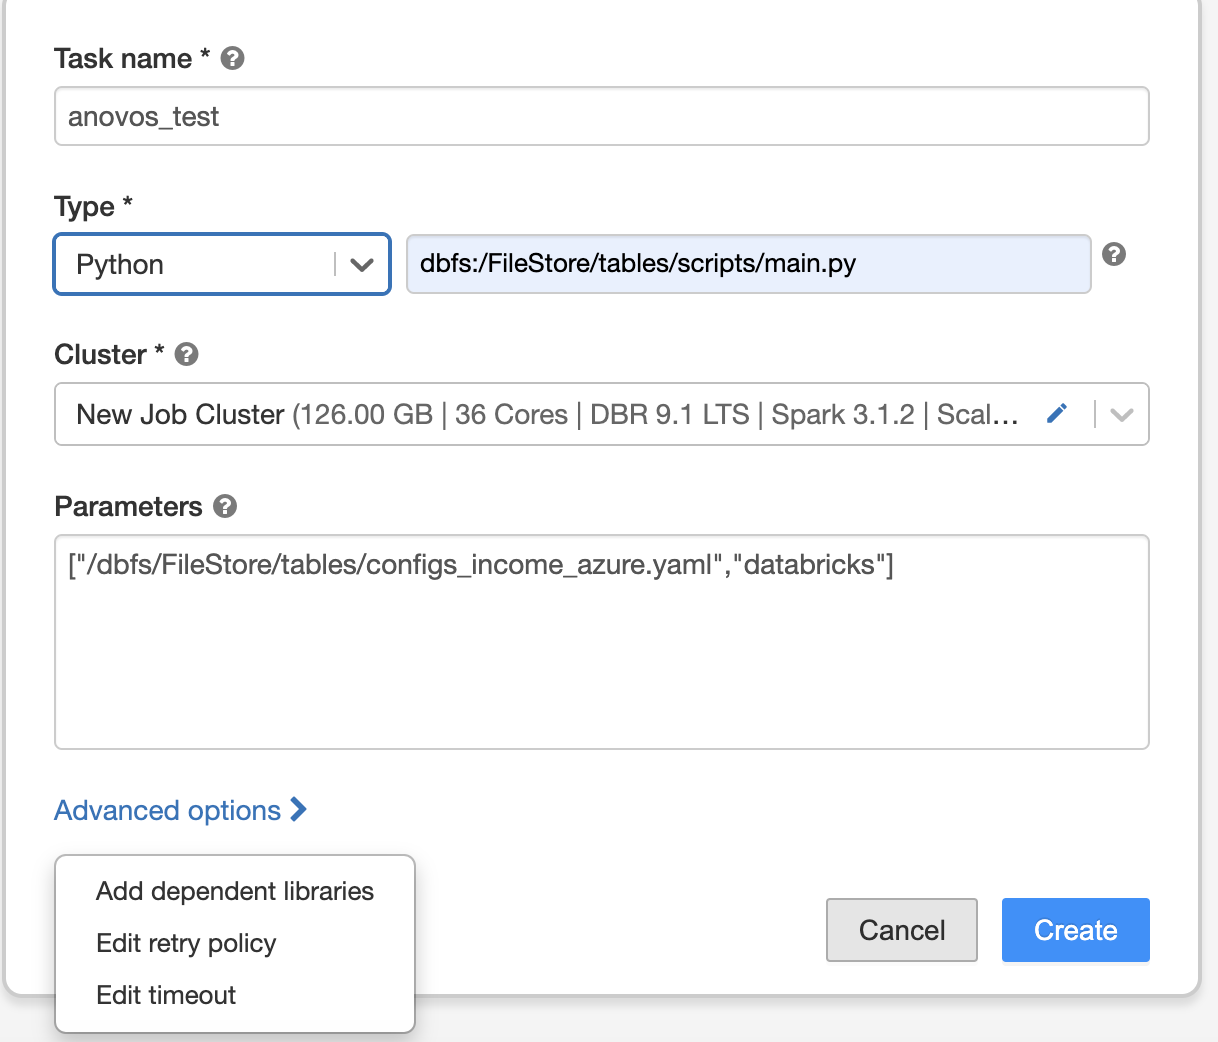
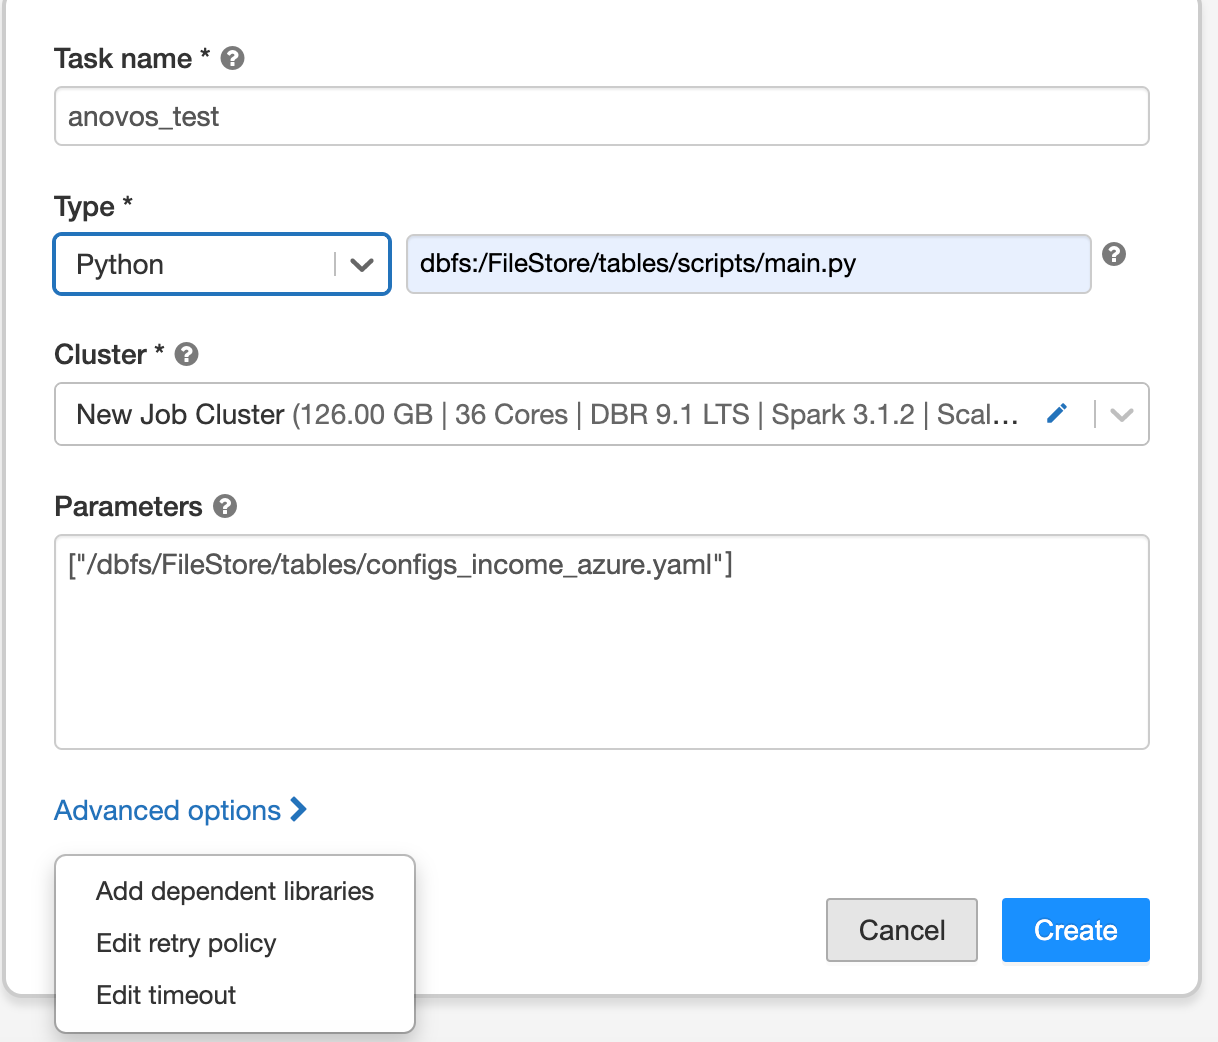
Revise the first half of the documentation

Changed region(s): [[0.8112, 0.8599, 0.9672, 0.9213], [0.5928, 0.5221, 0.7488, 0.5528]]

diff --git a/docs/using-anovos/setting-up/on_azure_databricks.md b/docs/using-anovos/setting-up/on_azure_databricks.md
@@ -6,31 +6,50 @@ It is a convenient way to handle big data workloads of Spark without having to s
 
 To learn more about Azure Databricks, have a look at
 [the official documentation](https://databricks.com/introducing-azure-databricks)
-or the following introductoray tutorials:
+or the following introductory tutorials:
 - [A beginner’s guide to Azure Databricks](https://www.sqlshack.com/a-beginners-guide-to-azure-databricks/)
 - [Azure Databricks Hands-on](https://medium.com/@jcbaey/azure-databricks-hands-on-6ed8bed125c7)
 
 Currently, _Anovos_ supports two ways of running workflows on Azure Databricks: 
 
-1.	Using DBFS directly - Generally used when dataset is present in dbfs path
-2.	Mounting an Azure blob storage container to DBFS - Generally used when dataset is present in azure blob storage container and of any size
+1. Processing datasets stored directly on DBFS
+2. Processing datasets stored on [Azure Blob Storage](https://azure.microsoft.com/services/storage/blobs/)
+
+Generally, we recommend the first option, as it requires slightly less configuration.
+However, if you're already storing your datasets on Azure Blob Storage, mounting the respective containers
+directly to DBFS allows you to directly process them with _Anovos_.
 
 ## Anovos on Azure Databricks using DBFS
 
-The following steps are required for running _Anovos_ workloads on Azure Databricks using DBFS.
+The following steps are required for running _Anovos_ workloads on Azure Databricks that process datasets stored
+on DBFS.
 
-### Step 1: Installing/Downloading _Anovos_
-To make the latest released version of _Anovos_ available on Azure Databricks, you need to install anovos packages directly from PyPI in step 4 itself.
+### Step 1: Installing _Anovos_ on Azure Databricks
+To make _Anovos_ available on Azure Databricks, you need to provide a so-called wheel file that contains
+the _Anovos_ Python package.
 
-Another way to make _Anovos_ available on Azure Databricks, you need to upload a wheel file.
-The easiest way to obtain it is to download directly from PyPI.
-This ensures that you have the latest stable and well-tested version of _Anovos_.
+The easiest way is to point Azure Databricks to the
+[current release of _Anovos_ on the Python Package Index (PyPI)](https://pypi.org/project/anovos/).
+(This is where `pip install anovos` goes to fetch the wheel file when installing from the terminal.)
+This has the advantage that you will get a well-tested and stable version of _Anovos_.
+
+Unless you need to make custom modifications to _Anovos_ or need access to new features or bugfixes that have
+not been released yet, we recommend to go with this option.
+In this case, you can directly go to Step 2.
+
+#### Alternative: Manually uploading a wheel file
+
+Instead of pointing Azure Databricks to the Python Package Index (PyPI),
+you can make _Anovos_ available by downloading the respective wheel file
+from PyPI yourself and manually uploading it to Azure Databricks.
 
 You'll find the link to the latest wheel file on
 [the "Download files" tab](https://pypi.org/project/anovos/#files).
 If you'd like to use an older version, you can navigate to the respective version in the
 [Release history](https://pypi.org/project/anovos/#history) and access the "Download files" tab
 from there.
+
+Download the _Anovos_ wheel file to your local machine and move on to Step 2.
 
 #### Alternative: Use a development version of _Anovos_
 
@@ -48,7 +67,6 @@ _**Note**: Using the `--branch` flag allows you to select a specific release of 
 _For example, adding `--branch v0.2.2` will give you the state of the 0.2.2 release._
 _If you omit the flag, you will get the latest development version of Anovos, which might not_
 _be fully functional or exhibit unexpected behavior._
-__
 
 After cloning, go to the `anovos` directory that was automatically created in the process
 and execute the following command to clean and prepare the environment:
@@ -77,7 +95,7 @@ _even if you cloned the repository yourself and used the latest state of the cod
 _This is due to the fact that the version is only updated right before new release is published._
 _To avoid confusion, it's a good practice to rename the wheel file to a custom name._
 
-### Step 2: Copy the data and workflow configuration to DBFS
+### Step 2: Prepare and copy the workflow configuration and data to DBFS
 
 To run an _Anovos_ workflow, both the data to be processed and the workflow configuration
 need to be stored on DBFS.
@@ -95,52 +113,67 @@ git clone https://github.com/anovos/anovos.git
 You'll find the dataset under `examples/data/income_dataset` and the configuration file
 under `config/configs_income_azure.yaml`.
 
-Users can update configs.yaml for all input & output DBFS paths
-For example,you can see below input_dataset section, here input_dataset kept at this dbfs path - "dbfs:/FileStore/tables/income_dataset/csv/". Users can store data in same dbfs path as given in config file or can keep input and output path in any dbfs path as per their choice and will update in config file accordingly to run the example.
+The `configs_income_azure.yaml` file contains the definition of the _Anovos_ workflow.
+(To learn more about this file, see [📖 Configuring Workloads](../config_file.md).)
 
-input_dataset:
-...
-  file_path: "dbfs:/FileStore/tables/income_dataset/csv/"
-...    
+First, you should have a look at the configured input paths to make sure that _Anovos_ can find the data to be processed.
+It is also important to check that the output paths are set to a location on DBFS that suits your needs.
 
-Also you can now adapt the workflow it describes to your needs.
+For example, in the `input_dataset` block, you can see that by default the `file_path` is set to
+`dbfs:/FileStore/tables/income_dataset/csv/`.
+If you would like to store your data at a different location, you need to adapt this path accordingly.
 
-For example, you can define which columns from the input dataset are used in the workflow. To try it yourself, find the delete_column configuration in the input_dataset block and add the column workclass to the list of columns to be deleted:
+**TODO: What about the output paths? These need to be changed in numerous locations in the config file, right?**
 
-input_dataset:
-...
-  delete_column: ['logfnl','workclass']
-...
+You can also make other changes to the workflow.
+For example, you can define which columns from the input dataset are used in the workflow.
+To try it yourself, find the `delete_column` configuration in the `input_dataset` block and add the column `workclass`
+to the list of columns to be deleted:
 
-Data and config file should be placed at FileStore/tables/** in this tutorial but Users can keep it at any dbfs path. By default when users upload data in to dbfs from local machine through UI, then Data and config file should be kept at FileStore/tables/**
+```yaml
+delete_column: ['logfnl','workclass']
+```
 
-To learn more about defining workflows through config files, see the
-[config file documentation](../config_file.md).
+To learn more about defining workflows through config files, see
+[📖 Configuring Workloads](../config_file.md).
+
+Once the `configs_income_azure.yaml` file is complete, you can copy this file and the dataset to DBFS.
+For this, you can choose to either upload the files through the UI or use the Azure Databricks CLI.
+We describe both options in the following sections.
+
+In any case, make sure that you place the data files in the location defined in the configuration file.
+You should also remember the location of the `configs_income_azure.yaml`, as you will need this information
+in the subsequent steps.
+
+(For this tutorial, we have decided to place all files under `dbfs:FileStore/tables/`.)
 
 #### Copying files to DBFS using the UI
 
 ![https://raw.githubusercontent.com/anovos/anovos-docs/azure_databricks_docs/docs/assets/azure_databricks_images/image1.png](https://raw.githubusercontent.com/anovos/anovos-docs/azure_databricks_docs/docs/assets/azure_databricks_images/image1.png)
 
-1. Launch the workspace on Databricks.
-2. Enter the data menu
+1. Launch the Azure Databricks workspace.
+2. Enter the data menu.
 3. Upload files by dragging files onto the marked area or click on it to upload using the file browser.
 
 For more detailed instructions, see the
-[Databricks documentation](https://docs.microsoft.com/en-us/azure/databricks/data/databricks-file-system#dbfs-and-local-driver-node-paths)
+[Databricks documentation](https://docs.microsoft.com/en-us/azure/databricks/data/databricks-file-system#dbfs-and-local-driver-node-paths).
 
 #### Copying files to DBFS using the CLI
 
 1. Install `databricks-cli` into a local Python environment by running `pip install databricks-cli`.
-2. Generate a personal access token for your Databricks workspace 
-For this, Users can open to their own databricks workspace and then go to settings - User Settings - Generate new token
+2. Generate a personal access token for your Databricks workspace by going to _Settings_ > _User Settings_ >
+   _Generate new token_. For details, see the [Databricks documentation](https://docs.microsoft.com/azure/databricks/dev-tools/api/latest/authentication).
 3. Configure the CLI to access your workspace by running `databricks configure --token`.
-4. Then copy the URL of databricks host for example - "https://centralus.azuredatabricks.net/" and token which created earlier step.
-5. To verify try to run "databricks fs ls", check whether you are able to see the DBFS.
-6. Then Copy the files using the `dbfs cp` command.
+4. Enter the URL of the databricks host (the domain of your workspace,
+   usually of the pattern `https://<UNIQUE ID OF YOUR WORKSPACE>.azuredatabricks.net/`) and the token when prompted
+   for it.
+5. To verify the configuration, run `databricks fs ls` and check whether you are able to see the files stored on DBFS.
+6. Then copy the files using the `dbfs cp` command:
 
 For example:
 ```shell
-dbfs cp -r /home/user1/Desktop/dummy_folder dbfs:/Filestore/tables/dummy_folder
+dbfs cp configs_income_azure.yaml dbfs:/FileStore/tables/configs_income_azure.yaml
+dbfs cp -r anovos/examples/data/income_dataset dbfs:/FileStore/tables/income_dataset
 ```
 
 For more information on the Databricks CLI, see the
@@ -149,7 +182,7 @@ For more information on the Databricks CLI, see the
 ### Step 3: Create a workflow script
 
 To launch the workflow on Azure Databricks, we need a single Python script as the entry point.
-Hence, we'll create a `main.py` script that invokes the _Anovos'_ workflow runner with the proper run type:
+Hence, we'll create a `main.py` script that invokes the _Anovos'_ workflow runner:
 ```python
 import sys
 from anovos import workflow
@@ -157,45 +190,57 @@ from anovos import workflow
 workflow.run(config_path=sys.argv[1], run_type="databricks")
 ```
 
-Upload this script to DBFS as well.
-Users can place at any location as per their choice. Here in this tutorial it is placed at FileStore/tables/scripts/**
+Upload this script to DBFS as well using either of the methods described above.
+Again, you can place this file at a location of your choosing.
+In this tutorial, we have placed it at `dbfs:/FileStore/tables/scripts/main.py`.
 
 ### Step 4: Configure and launch an _Anovos_ workflow as a Databricks job in Python way
 
 Once all files have been copied to DBFS, we can create an Azure Databricks job
 that starts a cluster and launches the _Anovos_ workflow.
 
-Here's an example of a job configuration: In figure you can see we need to keep the type as Python and also need to give the dbfs path of `main.py` script.In Parameters section we need to give the dbfs path of config file and assign the run_type as "databricks".
-
+Here's an example of a job configuration:
 ![Job configuration](../../assets/azure_databricks_images/image2.png)
 
-The cluster configuration comprises settings for the databricks run time version (ML or Standard mode), the number of workers, worker types and driver types,
-as well as the scaling behavior.
-For more detailed information, refer to the
-[Databricks documentation](https://docs.microsoft.com/en-us/azure/databricks/clusters/configure#cluster-configurations).
+You can see that we set the "Type" to "Python" and have provided the path of the `main.py` script.
+In the parameters section, we pass the DBFS path of the config file.
 
+The cluster configuration comprises settings for the Databricks Runtime, the number of workers,
+worker and driver types, as well as the cluster's scaling behavior.
+
+**TODO: We should update this to DBR 10.4 LTS as in the screenshot (image10.png) below**
 Here's an example of a cluster configuration for this tutorials:
 ![Cluster configuration](../../assets/azure_databricks_images/image3.png)
 
+For more detailed information, refer to the
+[Databricks documentation](https://docs.microsoft.com/en-us/azure/databricks/clusters/configure#cluster-configurations).
+
 To give the Databricks platform access to _Anovos_, click on "Advanced options" and select "Add dependent libraries".
-In the configuration dialogue, upload the _Anovos_ wheel if using development version otherwise use PyPI option to install latest released version of anovos packages directly as shown below:
 
-![Adding anovos packages through PyPI](../../assets/azure_databricks_images/image8.png)
+If you chose the default way of obtaining _Anovos_ directly from the Python Package Index,
+select "PyPI" as the "Library Source" and enter `anovos` as the "Package":
+![Adding Anovos through PyPI](../../assets/azure_databricks_images/image8.png)
 
-You need to upload histogrammar jars that was used for running correlation matrix using anovos. We can use Maven to install these histogrammar jars. We need to give exactly the same syntax for installing both jars that was metioned below: 
+If you chose to provide your own wheel file, select "Upload" as the library source and follow the instructions.
 
-For running in spark 2.4.x - io.github.histogrammar:histogrammar-sparksql_2.12:1.0.20, io.github.histogrammar:histogrammar_2.12:1.0.20
-For running in spark 3.x.x - io.github.histogrammar:histogrammar-sparksql_2.11:1.0.20, io.github.histogrammar:histogrammar_2.11:1.0.20
+In addition to the _Anovos_ wheel file, we need to provide the `histogrammar` package to Azure Databricks.
+_Anovos_ uses this library internally to compute correlation matrices.
 
-The following figure shows examples of how to install these jars through Maven.
-![Adding histogramm jars through Maven](../../assets/azure_databricks_images/image9.png)
+Following the same procedure as for _Anovos_, you can add `histogrammar` as a dependent library.
+This time, we use "Maven" as the "Library Source".
 
-Once the job is configured, click "Create" to instantiate it and then users will be able to see like this in tasks
+Then, select `io.github.histogrammar:histogrammar-sparksql_2.11:1.0.20`
+and `io.github.histogrammar:histogrammar_2.11:1.0.20` as the "Coordinates":
+![Adding Histogrammar through Maven](../../assets/azure_databricks_images/image9.png)
 
+(In case you're running _Anovos_ on Spark 2.4.x, you need to add
+`io.github.histogrammar:histogrammar-sparksql_2.12:1.0.20` and `io.github.histogrammar:histogrammar_2.12:1.0.20`)
+
+Once the job is configured, click "Create" to instantiate it.
+Then, you'll see the full task configuration:
 ![Task Details](../../assets/azure_databricks_images/image10.png)
 
 On the subsequent screen, click on "Run now" to launch the job:
-
 ![Active and completed runs](../../assets/azure_databricks_images/image5.png)
 
 For more information on creating and maintaining jobs, see the
@@ -205,7 +250,12 @@ For more information on creating and maintaining jobs, see the
 
 Once the job finishes successfully, it will show up under "Completed runs".
 
-The intermediate data and the report data are saved at the master_path and the final_report_path in DBFS as specified by the user inside the configs.yaml file. For example in this tutorials, The intermediate data and the report data are saved at FileStore/tables/report_stats/**. Users can go in this path and copy the html report and other intermediate data using CLI in local machine.
+The intermediate data and the report data are saved at the `master_path` and the `final_report_path` 
+specified in the `configs_income_azure.yaml` file.
+In this tutorial, we have set these paths to `dbfs:FileStore/tables/report_stats/`.
+
+**TODO: How exactly? What's the most convenient way? (Yesterday, we had some issues here and it was rather complicated.)**
+You can go in this path and copy the html report and other intermediate data using CLI in local machine.
 
 ## Anovos on Azure Databricks using an Azure Blob Storage container mounted to DBFS
 
